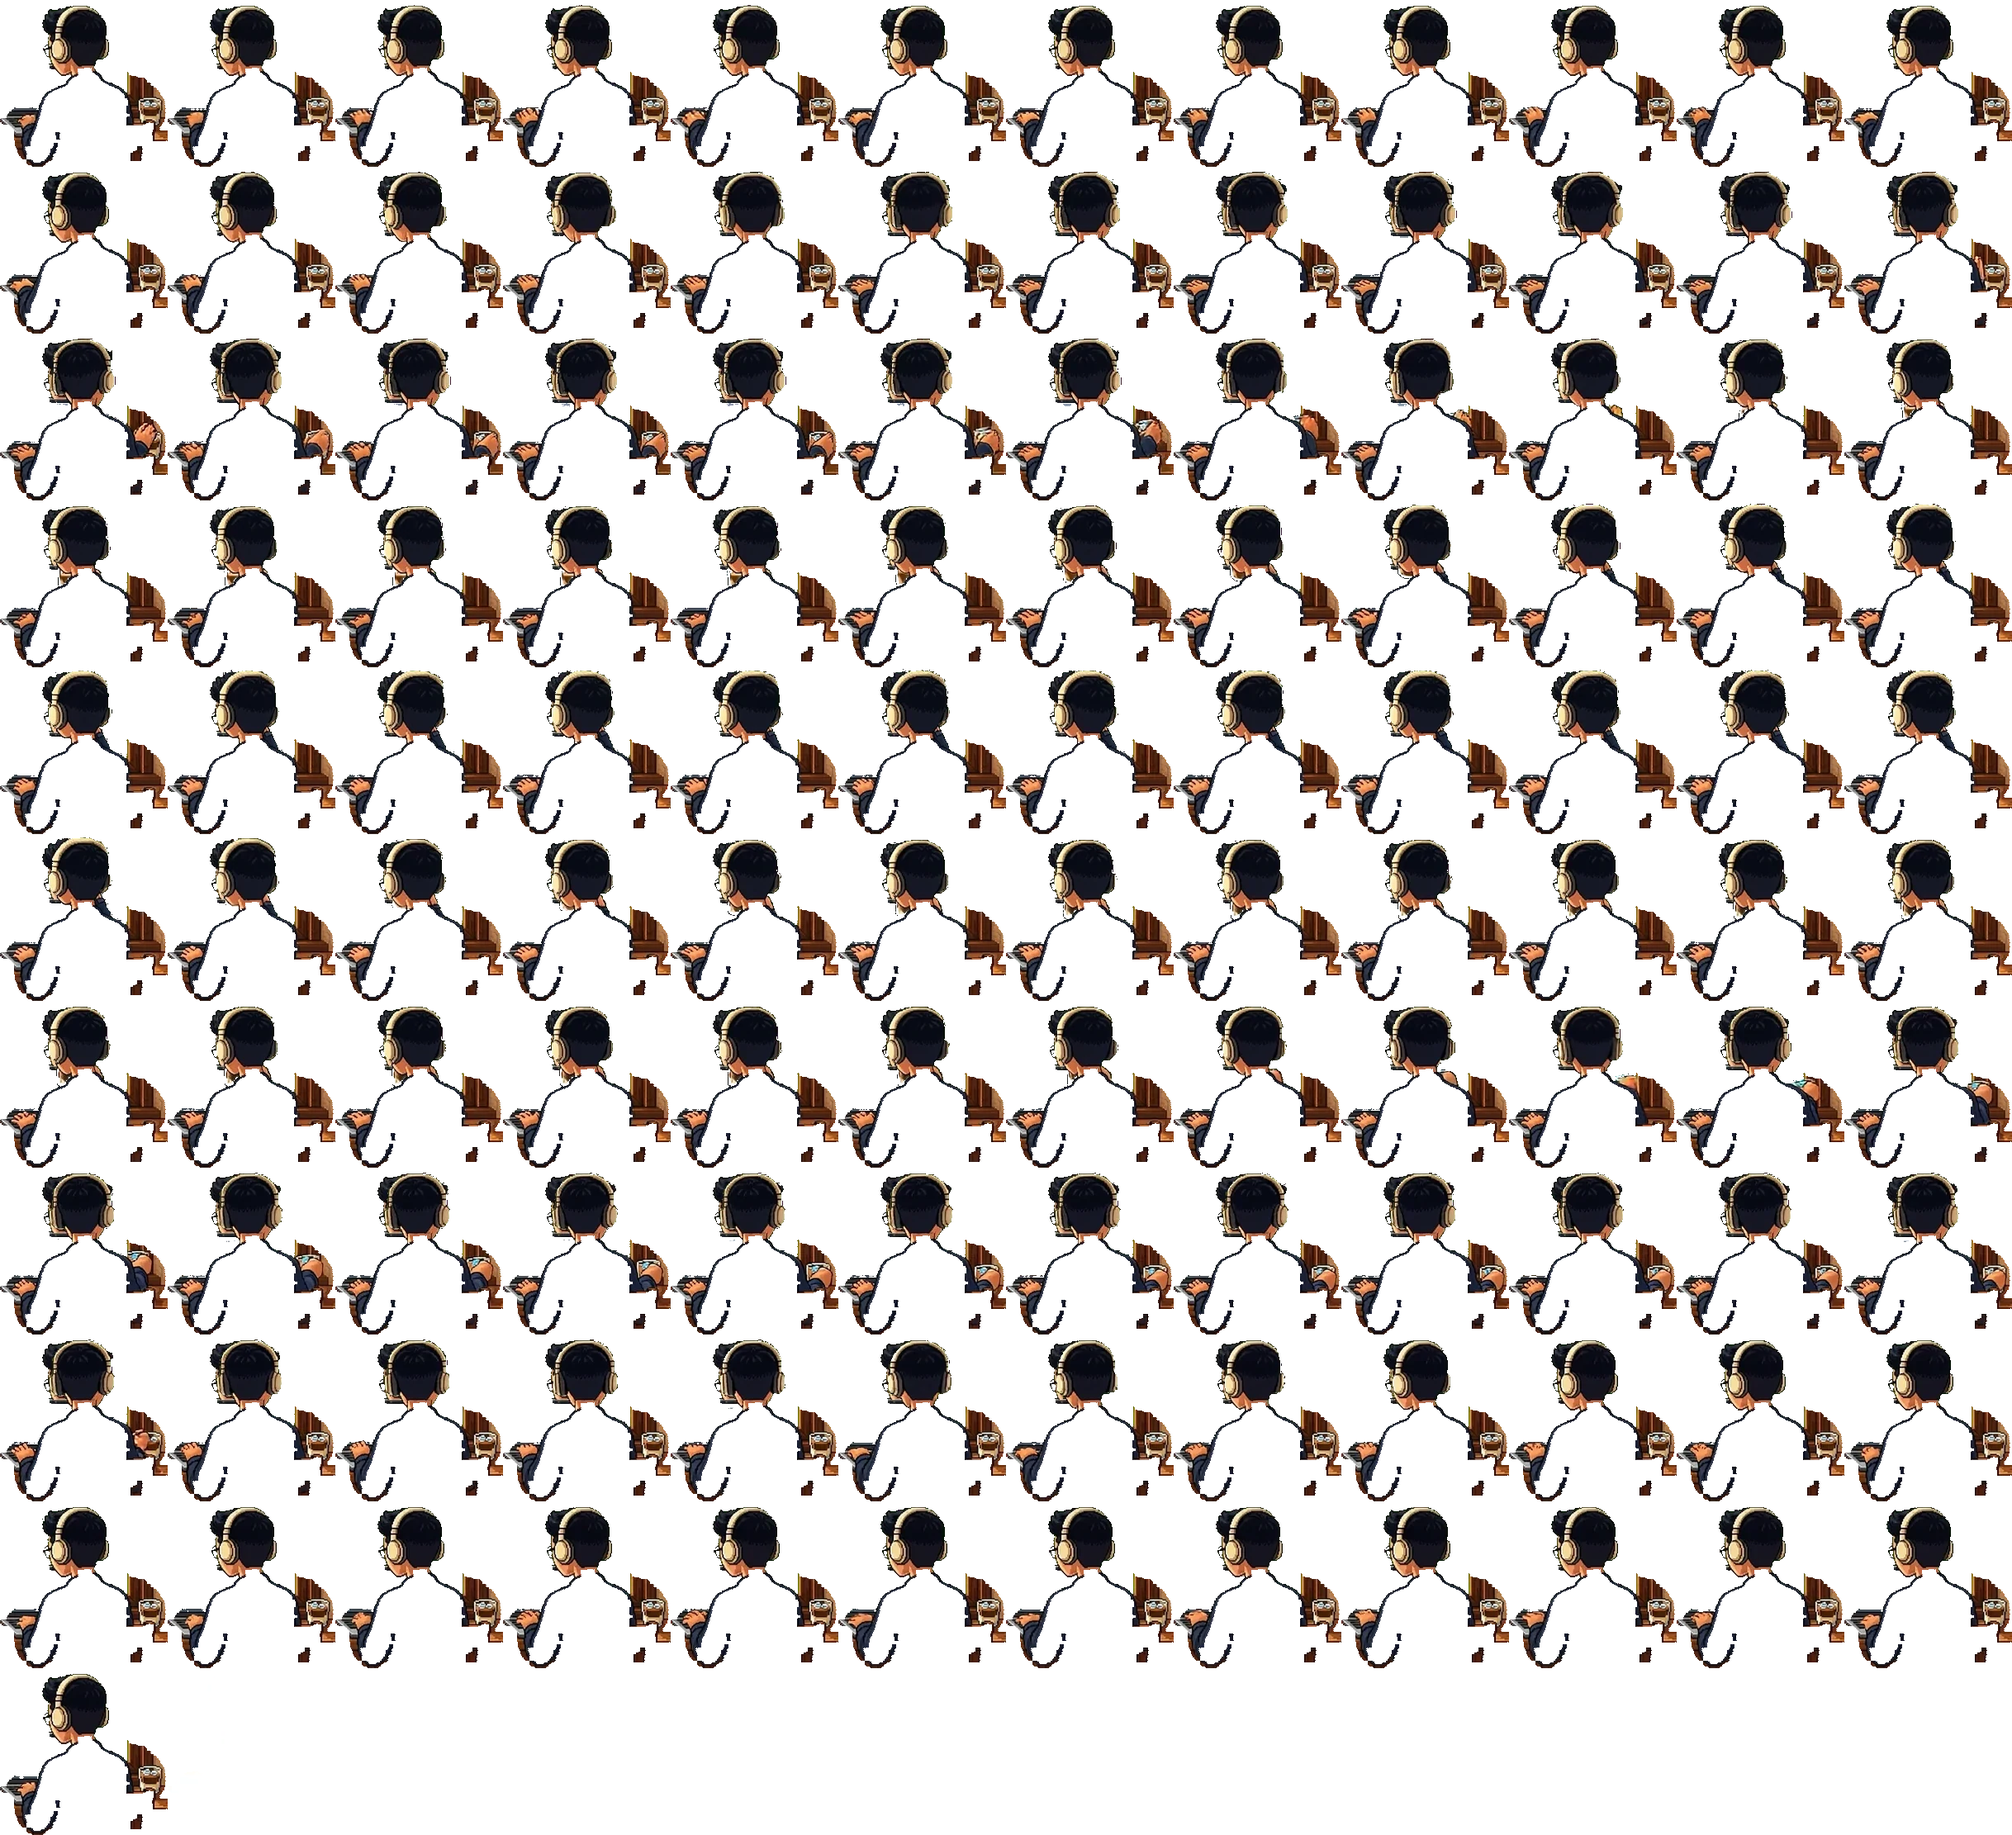
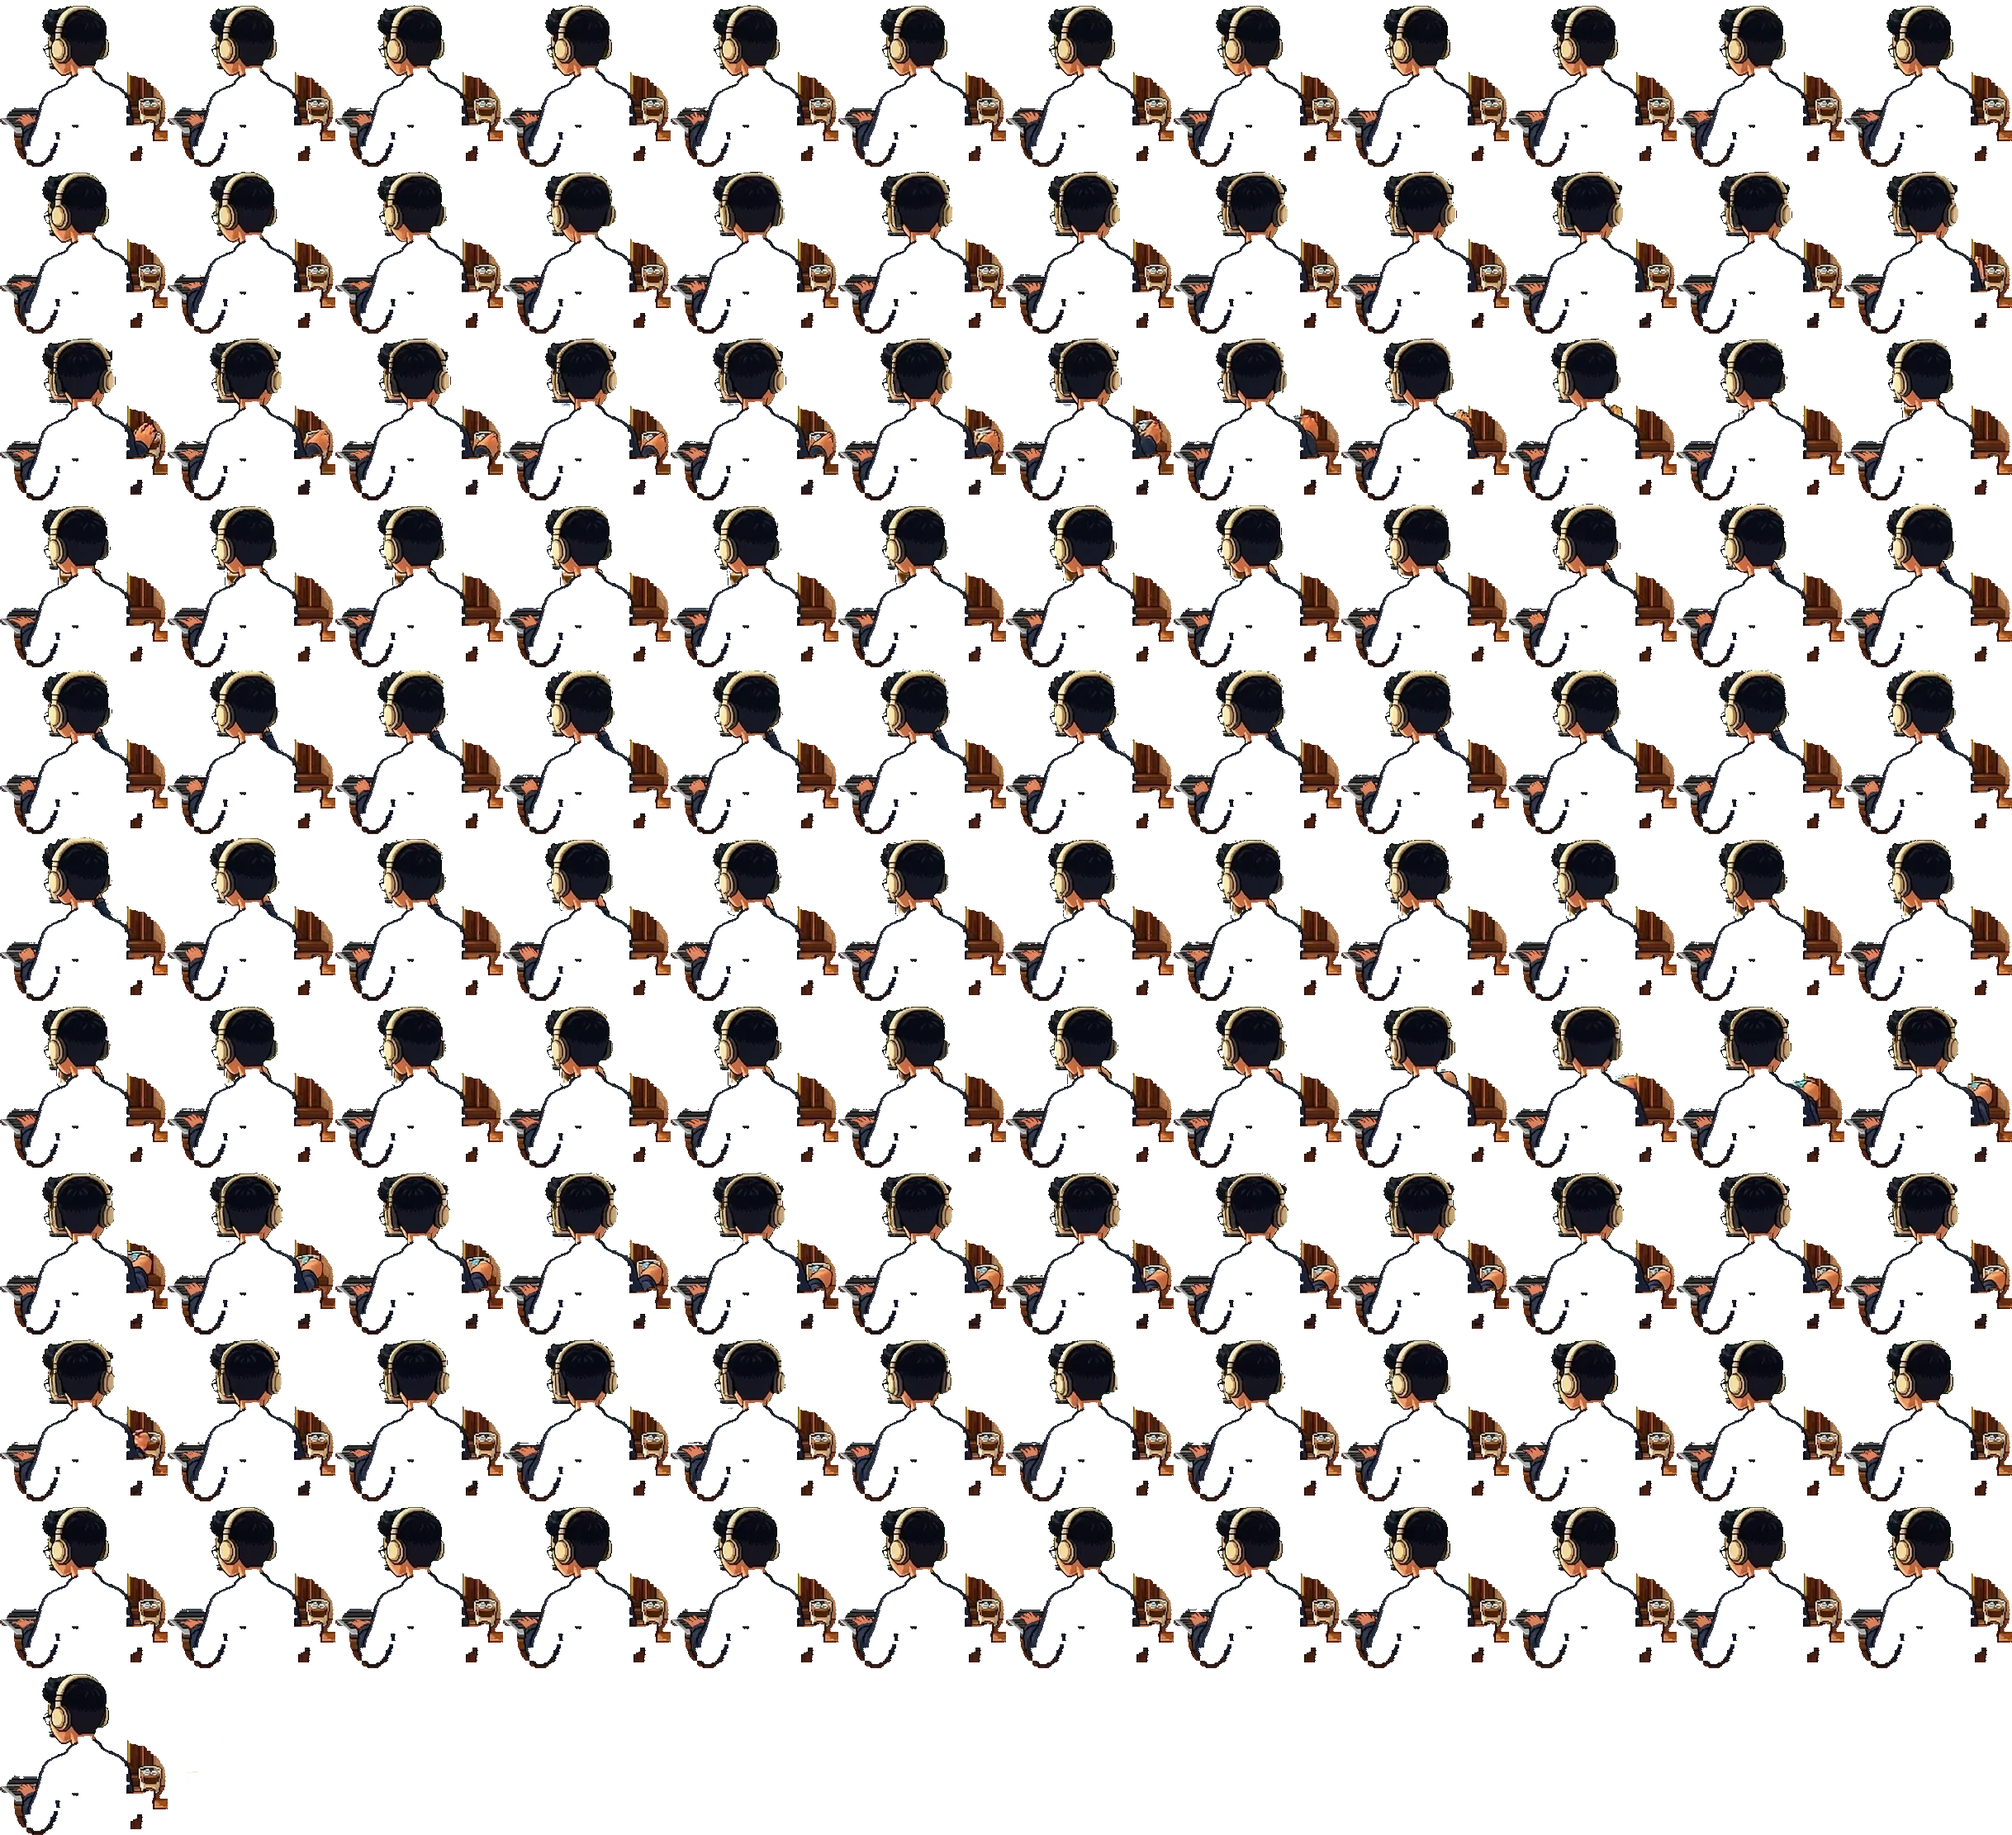
changed: /chill he types with the same natural hand at the Café window and at the Night desk. His Night desk video drew the hand as a lump with the fingers locked together, and the Café window used a still drawn hand with only the knuckles bobbing, so the two rooms looked like different hands. Both 

diff --git a/scripts/chill-hands-art.py b/scripts/chill-hands-art.py
@@ -6,9 +6,10 @@
 #   1. tìm cục da tay trên bàn phím (khung đang ghép đúng như scene.ts vẽ: nội thất đã khoét
 #      mặt nạ + khung người), xoá nó cùng viền nâu, vá lại bằng bàn phím sạch;
 #   2. đặt bàn tay mới bám theo cổ tay của khung đó; tay áo trong khung vẫn đè lên cổ tay.
-#      --hand desk (mặc định cho chị, DESK_SEATS): bàn tay của khung cùng thời điểm trong video Bàn
-#      đêm, nên hai phòng gõ phím bằng cùng một bàn tay, cùng nhịp (xem desk_hands).
-#      Còn lại (anh, hoặc --hand nano): bàn tay Nano Banana 2 vẽ (scripts/chill-hand-girl.png),
+#      --hand desk (mặc định): bàn tay của khung cùng thời điểm trong video Bàn đêm của chị, nên
+#      hai phòng gõ phím bằng cùng một bàn tay, cùng nhịp (xem desk_hands). Anh mượn tay chị (thu
+#      0,8, màu da anh) và Bàn đêm của anh cũng được thay theo (process_desk_sheet, --room).
+#      --hand nano: bàn tay Nano Banana 2 vẽ (scripts/chill-hand-girl.png),
 #      đốt tay nhấp nhô theo nhịp gõ tính bằng giây.
 # Khung chị đưa tay lên cầm ly thì để nguyên tay, chỉ dọn viền nâu "bóng ma" còn trên bàn phím.
 #
@@ -438,9 +439,9 @@ def desk_hands(n, scale):
 
 
 HAND_MODE = 'desk'
-# Người ngồi đã dùng bàn tay Bàn đêm. Anh: tay Bàn đêm của anh hỏng, phương án mượn tay chị
-# (HAND_SRC) còn chờ duyệt cùng việc sửa Bàn đêm của anh cho khớp, nên vẫn là tay Nano Banana
-DESK_SEATS = {'girl'}
+# Người ngồi dùng bàn tay Bàn đêm (anh mượn tay chị, HAND_SRC; Bàn đêm của anh sửa theo, xem
+# process_desk_sheet). Bỏ khỏi đây thì người đó quay về tay Nano Banana
+DESK_SEATS = {'girl', 'boy'}
 
 
 def process_sheet(n, name, scale, cols, frames, fps, rev, plate, keys, out_dir=None):
@@ -573,25 +574,198 @@ def process_sheet(n, name, scale, cols, frames, fps, rev, plate, keys, out_dir=N
     print(path, os.path.getsize(path), 'hands', sum(a is not None for a in anchors), '/', frames)
 
 
+# ---------------------------------------------------------------- Bàn đêm của anh
+# Video Bàn đêm của anh vẽ bàn tay thành cục ngón đan vào nhau, nên Bàn đêm của anh cũng thay bằng
+# bàn tay của chị ở Bàn đêm (cùng phòng, cùng laptop) như ở quán: thu 0,8, màu da anh, khung cùng
+# thời điểm. Laptop ở Bàn đêm vẽ khác quán (lệch ~10 px, màn to hơn) nên có bàn phím sạch riêng:
+# mỗi điểm lấy trung vị các khung tay cũ không che điểm đó, điểm luôn bị che lấy màu giữa của hàng.
+# Ô Bàn đêm chỉ đục ở phần chuyển động (tay, đầu); lòng màn vẽ dưới ảnh tĩnh nên trong khung là
+# trong suốt. Đọc sheet gốc ở DESK_REV (trước khi sửa tay Bàn đêm) nên chạy lại không vẽ chồng.
+DESK_REV = '38003aa'
+DESK_BOY = dict(at=(437, 136, 203, 202), interior='room-desk.webp', sheets=[
+    ('room-desk-loop@2x.webp', 2, 10, 81, 8),
+    ('room-desk-loop.webp', 1, 12, 121, 12),
+    ('room-desk-loop-noel@2x.webp', 2, 10, 81, 8),
+    ('room-desk-loop-noel.webp', 1, 12, 121, 12),
+])
+# Vùng bàn tay (ô ×2 của Bàn đêm anh) và lòng màn (436, 219, 99×51 px gốc → trong ô)
+ZD = (0, 236, 190, 330)
+SCREEN_D = (0, 166, 196, 268)
+
+
+class DeskRoom:
+    def __init__(self, name, scale, cols, frames):
+        ax, ay, aw, ah = DESK_BOY['at']
+        self.w, self.h = aw * 2, ah * 2
+        self.scale, self.cols, self.frames = scale, cols, frames
+        self.cw, self.ch = self.w * scale // 2, self.h * scale // 2
+        self.arr = np.asarray(git_image(DESK_REV, name)).astype(float)
+        interior = np.asarray(git_image(DESK_REV, DESK_BOY['interior'])).astype(float)
+        if interior.shape[1] == 640:
+            interior = interior.repeat(2, 0).repeat(2, 1)
+        self.reg = interior[ay * 2:ay * 2 + self.h, ax * 2:ax * 2 + self.w].copy()
+        self.reg[..., 3] *= 1 - self.cell(frames)[..., 3] / 255
+
+    def cell(self, i):
+        r0, c0 = (i // self.cols) * self.ch, (i % self.cols) * self.cw
+        c = self.arr[r0:r0 + self.ch, c0:c0 + self.cw]
+        return c if self.scale == 2 else c.repeat(2, 0).repeat(2, 1)
+
+    def comp(self, i):
+        f = self.cell(i)
+        a, ra = f[..., 3:4] / 255, self.reg[..., 3:4] / 255
+        return f[..., :3] * a + (self.reg[..., :3] * ra + BG * (1 - ra)) * (1 - a)
+
+
+def desk_blob(c):
+    x0, y0, x1, y1 = ZD
+    m = np.zeros(c.shape[:2], bool)
+    m[y0:y1, x0:x1] = skinmask(c[y0:y1, x0:x1])
+    b = biggest(m)
+    return b if b.sum() >= 250 else None
+
+
+def desk_plate():
+    # Bàn phím sạch của Bàn đêm từ sheet hi thường
+    room = DeskRoom(DESK_BOY['sheets'][0][0], 2, 10, 81)
+    x0, y0, x1, y1 = ZD
+    obs, ok = [], []
+    for i in range(room.frames):
+        c = room.comp(i)
+        b = desk_blob(c)
+        cover = dil(sleevemask(c, 'boy'), 3) | dil(skinmask(c), 3) | brownish(c)
+        if b is not None:
+            cover |= dil(b, 5)
+        obs.append(c[y0:y1, x0:x1])
+        ok.append(~cover[y0:y1, x0:x1])
+    obs, ok = np.array(obs), np.array(ok)
+    cnt = ok.sum(0)
+    plate = np.zeros(obs.shape[1:])
+    for y in range(obs.shape[1]):
+        for x in range(obs.shape[2]):
+            if cnt[y, x] >= 3:
+                plate[y, x] = np.median(obs[ok[:, y, x], y, x], 0)
+    # điểm luôn bị che: màu giữa của các điểm có trong cùng hàng, lấy đoạn gần nhất bên trái
+    for y in range(obs.shape[1]):
+        good = np.nonzero(cnt[y] >= 3)[0]
+        for x in np.nonzero(cnt[y] < 3)[0]:
+            left = good[good < x]
+            src = left[-8:] if len(left) else good[:8]
+            plate[y, x] = np.median(plate[y, src], 0) if len(src) else plate[y - 1, x]
+    full = np.zeros((room.h, room.w, 3))
+    full[y0:y1, x0:x1] = plate
+    return full
+
+
+def process_desk_sheet(name, scale, cols, frames, fps, plate, out_dir=None):
+    room = DeskRoom(name, scale, cols, frames)
+    hands = desk_hands('boy', scale)
+    comps, blobs = [], []
+    for i in range(frames):
+        c = room.comp(i)
+        comps.append(c)
+        blobs.append(desk_blob(c))
+    raw = [None if b is None else (np.nonzero(b)[1].max(), np.nonzero(b)[0].max()) for b in blobs]
+    anchors = []
+    for i, a in enumerate(raw):
+        near = [raw[j] for j in (i - 1, i, i + 1) if 0 <= j < frames and raw[j] is not None]
+        anchors.append((np.median([p[0] for p in near]), np.median([p[1] for p in near])) if near else None)
+    sx0, sy0, sx1, sy1 = SCREEN_D
+    out = room.arr.copy()
+    H, W = room.h, room.w
+    zone = np.zeros((H, W), bool)
+    zone[ZD[1]:ZD[3], ZD[0]:ZD[2]] = True
+    for i in range(frames):
+        c = comps[i]
+        new = c.copy()
+        sl = sleevemask(c, 'boy')
+        sleeve = big_sleeve(c, 'boy', (ZD[0], ZD[1] - 30, ZD[2], ZD[3]))
+        arm = dil(sleeve, 2)
+        cuff = dil(sleeve, 1) | sl
+        ghost = np.zeros((H, W), bool)
+        if blobs[i] is not None:
+            # cục tay cũ + viền nâu + điểm sáng hồng trên mu tay quanh nó
+            near_old = dil(blobs[i], 5) & ~arm
+            ghost = near_old & (skinmask(c) | brownish(c) | tinted(c) | (c.min(-1) > 130)
+                                | (np.abs(c - plate).max(-1) > 40))
+            ghost |= dil(blobs[i], 2) & ~arm
+        # đốt tay cũ tách rời cục chính (nhô lên mép phím / viền màn): mọi mảng da trong vùng tay
+        skin_any = dil(skinmask(c), 3) & ~arm
+        ghost |= skin_any & (skinmask(c) | brownish(c) | (c.min(-1) > 130) | (np.abs(c - plate).max(-1) > 40))
+        ghost &= zone
+        new[ghost] = plate[ghost]
+        changed = ghost.copy()
+        transparent = np.zeros_like(changed)
+        transparent[sy0:sy1, sx0:sx1] = ghost[sy0:sy1, sx0:sx1]
+        if anchors[i] is not None:
+            dc, hm, (bx, by) = hands[i]
+            ox, oy = anchors[i][0] - bx, anchors[i][1] - by
+            ox, oy = (int(round(ox / 2)) * 2, int(round(oy / 2)) * 2) if scale == 1 else (int(round(ox)), int(round(oy)))
+            for yy, xx in zip(*np.nonzero(hm)):
+                Y, X = yy + oy, xx + ox
+                if 0 <= Y < H and 0 <= X < W and not cuff[Y, X]:
+                    new[Y, X] = dc[yy, xx]
+                    changed[Y, X] = True
+                    transparent[Y, X] = False
+        orig = room.cell(i)
+        opaque = ((orig[..., 3] > 0) & ~changed) | (changed & ~transparent)
+        scr = np.zeros_like(opaque)
+        scr[sy0:sy1, sx0:sx1] = opaque[sy0:sy1, sx0:sx1]
+        near = dil(changed, 2)
+        for comp in components(scr):
+            ys, xs = map(list, zip(*comp))
+            if len(comp) < 60 and near[ys, xs].any():
+                changed[ys, xs] = True
+                transparent[ys, xs] = True
+        rgba = np.concatenate([new, np.full(new.shape[:2] + (1,), 255.0)], -1)
+        rgba[~changed] = orig[~changed]
+        rgba[transparent] = 0
+        r0, c0 = (i // cols) * room.ch, (i % cols) * room.cw
+        tile = out[r0:r0 + room.ch, c0:c0 + room.cw]
+        if scale == 1:
+            ch_ = changed.reshape(room.ch, 2, room.cw, 2).any((1, 3))
+            blk = rgba.reshape(room.ch, 2, room.cw, 2, 4)
+            op = blk[..., 3] > 0
+            cnt = op.sum((1, 3))
+            rgb = (blk[..., :3] * op[..., None]).sum((1, 3)) / np.maximum(cnt, 1)[..., None]
+            small = np.concatenate([rgb, np.full(cnt.shape + (1,), 255.0)], -1)
+            small[cnt < 2] = 0
+            tile[ch_] = small[ch_]
+        else:
+            tile[changed] = rgba[changed]
+    path = os.path.join(out_dir or os.path.join(ROOT, SCENES), name)
+    q = 92 if 'noel' in name else 88
+    Image.fromarray(out.round().astype(np.uint8)).save(path, 'WEBP', quality=q, alpha_quality=100, method=6, exact=True)
+    print(path, os.path.getsize(path), 'hands', sum(a is not None for a in anchors), '/', frames)
+
+
 def main():
     ap = argparse.ArgumentParser()
     ap.add_argument('--rev', default='5dcf719')
     ap.add_argument('--only', choices=['boy', 'girl'])
     ap.add_argument('--hand', choices=['desk', 'nano'], default='desk')
     ap.add_argument('--sheet', help='chỉ làm 1 sheet (tên file)')
+    ap.add_argument('--room', choices=['cafe', 'desk', 'all'], default='all', help='desk = Bàn đêm của anh')
     ap.add_argument('--out', help='ghi sheet vào thư mục này thay vì public/chill/scenes')
     args = ap.parse_args()
     global HAND_MODE
     HAND_MODE = args.hand
     plates = build_plates(args.rev)
     keys = key_area()
-    for n, cfg in SHEETS.items():
-        if args.only and n != args.only:
-            continue
-        for name, scale, cols, frames, fps in cfg['sheets']:
+    if args.room in ('cafe', 'all'):
+        for n, cfg in SHEETS.items():
+            if args.only and n != args.only:
+                continue
+            for name, scale, cols, frames, fps in cfg['sheets']:
+                if args.sheet and name != args.sheet:
+                    continue
+                process_sheet(n, name, scale, cols, frames, fps, args.rev, plates[n], keys, args.out)
+    if args.room in ('desk', 'all') and args.only != 'girl' and args.hand == 'desk' and 'boy' in DESK_SEATS:
+        dplate = desk_plate()
+        for name, scale, cols, frames, fps in DESK_BOY['sheets']:
             if args.sheet and name != args.sheet:
                 continue
-            process_sheet(n, name, scale, cols, frames, fps, args.rev, plates[n], keys, args.out)
+            process_desk_sheet(name, scale, cols, frames, fps, dplate, args.out)
 
 
 if __name__ == '__main__':
